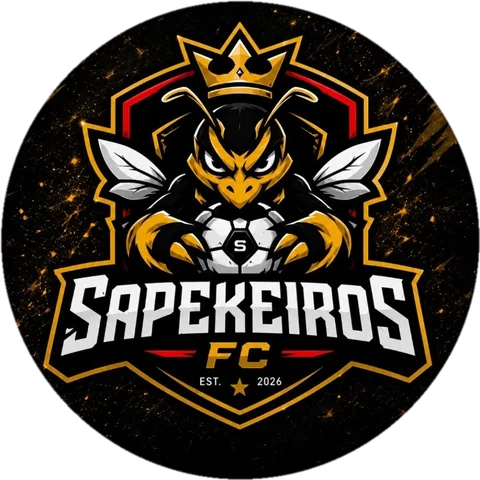
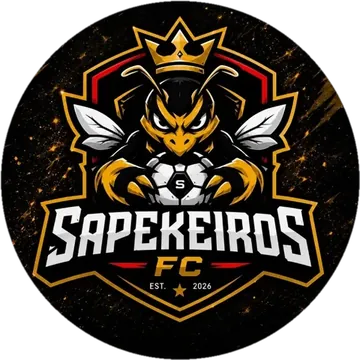
Sapekeiros FC entra na Série D no lugar do Pardemeias
Batismo do tiosapeka (@tiosapekagg). Ele já tinha tudo desde 12/08 — escudo,
abelha coroada de mascote, manto preto+dourado, estádio "Clube dos Sapekeiros",
ouro 👑, sócio nº21, fundador nº41 e o nome reservado nas 4 formas. Faltava só a
divisão, e o Diego escolheu a vaga.

- data.ts: Série D, no lugar do Pardemeias · OLD_NAME leva save antigo com
  Pardemeias pro Sapekeiros FC ao carregar (ninguém perde carreira).

📏 PESO: a arte estava acima do teto da casa (escudo 49,4 KB/480px contra o
padrão 30 KB/360px · mascote 47,1 KB contra 45 KB). Recomprimida: 29,6 KB e
42,5 KB — 96 KB viraram 72 KB, dentro dos 75 KB por batismo. Sem diferença
visível na tela (o escudo nunca passa de 78px). A largura declarada do mascote
foi acertada pra proporção real do arquivo novo (440/373), como manda a regra.

⚠ ANOTADO EM pendencias.md: a Série D agora tem UMA vaga livre só
(Flamengo do Sertão). Depois dela acabou — vale avisar antes de prometer Série D
pro próximo batismo.

diff --git a/src/escalacao/data.ts b/src/escalacao/data.ts
@@ -2317,6 +2317,7 @@ export const OLD_NAME: Record<string, string> = {
   'Tokyo City Esperion': 'FC Galáticos', // ⚽ elo da corrente do denilson: FC Galáticos → Tokyo City Esperion → Xurupitas FC
   'Tôka10': 'Biriba United', // ⚽ batismo do ofc.toka10: save antigo com Biriba United vira Tôka10 ao carregar
   'Skyy FC': 'Fortuna SAF', // ⚽ batismo do matheusncruz1: save antigo com Fortuna SAF vira Skyy FC ao carregar
+  'Sapekeiros FC': 'Pardemeias', // ⚽ batismo do tiosapeka: save antigo com Pardemeias vira Sapekeiros FC ao carregar (20/08)
   'Crias do Bigão': 'Ferroviária do Vale', // ⚽ batismo do giovannecastro784: save antigo com Ferroviária do Vale vira Crias do Bigão ao carregar (17/08)
   'SC Ferrari': 'Painitto FC', // ⚽ batismo do adriano.ferrari: save antigo com Painitto FC vira SC Ferrari ao carregar
   'Barcenite FC': 'Milanesa FC', // ⚽ batismo do ricardopessoafreire: save antigo com Milanesa FC vira Barcenite FC ao carregar
@@ -2436,7 +2437,7 @@ export const DIVISION_TEAMS: Record<'A' | 'B' | 'C' | 'D', CareerTeam[]> = {
     { name: 'Zé do Caixote', team: 'La Bestia Negra' }, // ⚽ clube BATIZADO por apoiador (eltonfrossard45 — La Bestia Negra, ex-River Prato)
     { name: 'Nininho', team: 'Bicho da Seda' }, // ⚽ clube BATIZADO por apoiador (davisantana1312/Davi — Bicho da Seda, ex-Red Bull Diet; correção 10/08)
     { name: 'Piu do Grêmio', team: 'Barcenite FC' },
-    { name: 'Tico do Bar', team: 'Pardemeias' },
+    { name: 'Tico do Bar', team: 'Sapekeiros FC' }, // 🐝👑 clube BATIZADO por apoiador (tiosapeka@gmail.com / @tiosapekagg — Sapekeiros FC, ex-Pardemeias; abelha coroada, manto preto+dourado, 20/08)
     { name: 'Xandão da Bola', team: 'Manfré FC' }, // ⚽ clube BATIZADO por apoiador (danielmanfre5 — Manfré FC, ex-Livre-pool)
     { name: 'Val do Buraco', team: 'Flamengo do Sertão' },
   ],

diff --git a/src/escalacao/mascotes.tsx b/src/escalacao/mascotes.tsx
@@ -464,7 +464,7 @@ export const MASCOTES: Record<string, ReactNode> = {
   // 12/08): abelha/vespa coroada de asas abertas agarrando a bola. Arte própria do dono
   // (webp, gerada no estilo do escudo, fundo transparente). mascote_key = "sapek_abelha".
   sapek_abelha: (
-    <img src={sapekAbelhaImg} height={176} width={Math.round(176 * 500 / 424)} alt="Abelha — Sapekeiros FC" style={{ flex: 'none', display: 'block', objectFit: 'contain' }} />
+    <img src={sapekAbelhaImg} height={176} width={Math.round(176 * 440 / 373)} alt="Abelha — Sapekeiros FC" style={{ flex: 'none', display: 'block', objectFit: 'contain' }} />
   ),
   // 🐍💨 a COBRA DO ARRUDA (mascote do Tricolor do Arruda — souzact12, aprovado
   // 16/08): a MESMA cobra que aparece no escudo, recortada dele (boné virado,

diff --git a/docs/pendencias.md b/docs/pendencias.md
@@ -53,6 +53,25 @@ isso pausado e apenas criar a copa libertadores lá junto com o de liga e copa"*
 A pesquisa está salva em `docs/libertadores-por-clube.txt` e
 `docs/libertadores-participantes.md` — se voltar, é só ligar o filtro.
 
+## 🐝 SAPEKEIROS FC entrou na Série D (20/08) ✅ NO AR
+Batismo do **tiosapeka@gmail.com / @tiosapekagg** (influencer). Ele já tinha
+escudo, mascote (abelha coroada), manto preto+dourado, estádio "Clube dos
+Sapekeiros", tier ouro 👑, sócio nº21 e fundador nº41 desde 12/08 — só faltava a
+DIVISÃO. O Diego escolheu a vaga: **entrou no lugar do Pardemeias** (`data.ts`
+Série D + `OLD_NAME`, então save antigo com Pardemeias vira Sapekeiros ao abrir).
+
+⚠ **A Série D acabou.** Só sobrou **1 vaga livre**: `Flamengo do Sertão`
+(técnico "Val do Buraco"). Todas as outras 19 já têm dono. O próximo batismo que
+pedir Série D pega essa — e depois disso **não tem mais**: ou abre vaga em outra
+série, ou o desenho da pirâmide precisa crescer. Vale avisar o Diego ANTES de
+prometer Série D pra alguém.
+
+📏 A arte dele estava **acima do teto da casa** (escudo 49,4 KB/480px contra
+30 KB/360px · mascote 47,1 KB contra 45 KB). Recomprimida no mesmo commit:
+29,6 KB e 42,5 KB, sem diferença visível (comparação antes/depois foi pro Diego).
+A largura declarada do mascote foi corrigida pra proporção real do arquivo novo
+(440/373), como manda a regra 4.
+
 ## 🏆 LIGA FECHADA — em construção (só a conta do Diego)
 A sala que fica de pé: horário marcado, sempre a MESMA sala, só a turma entra e
 os troféus se empilham ali. Desenho aprovado em `scripts/mockup-liga-fechada.mjs`
